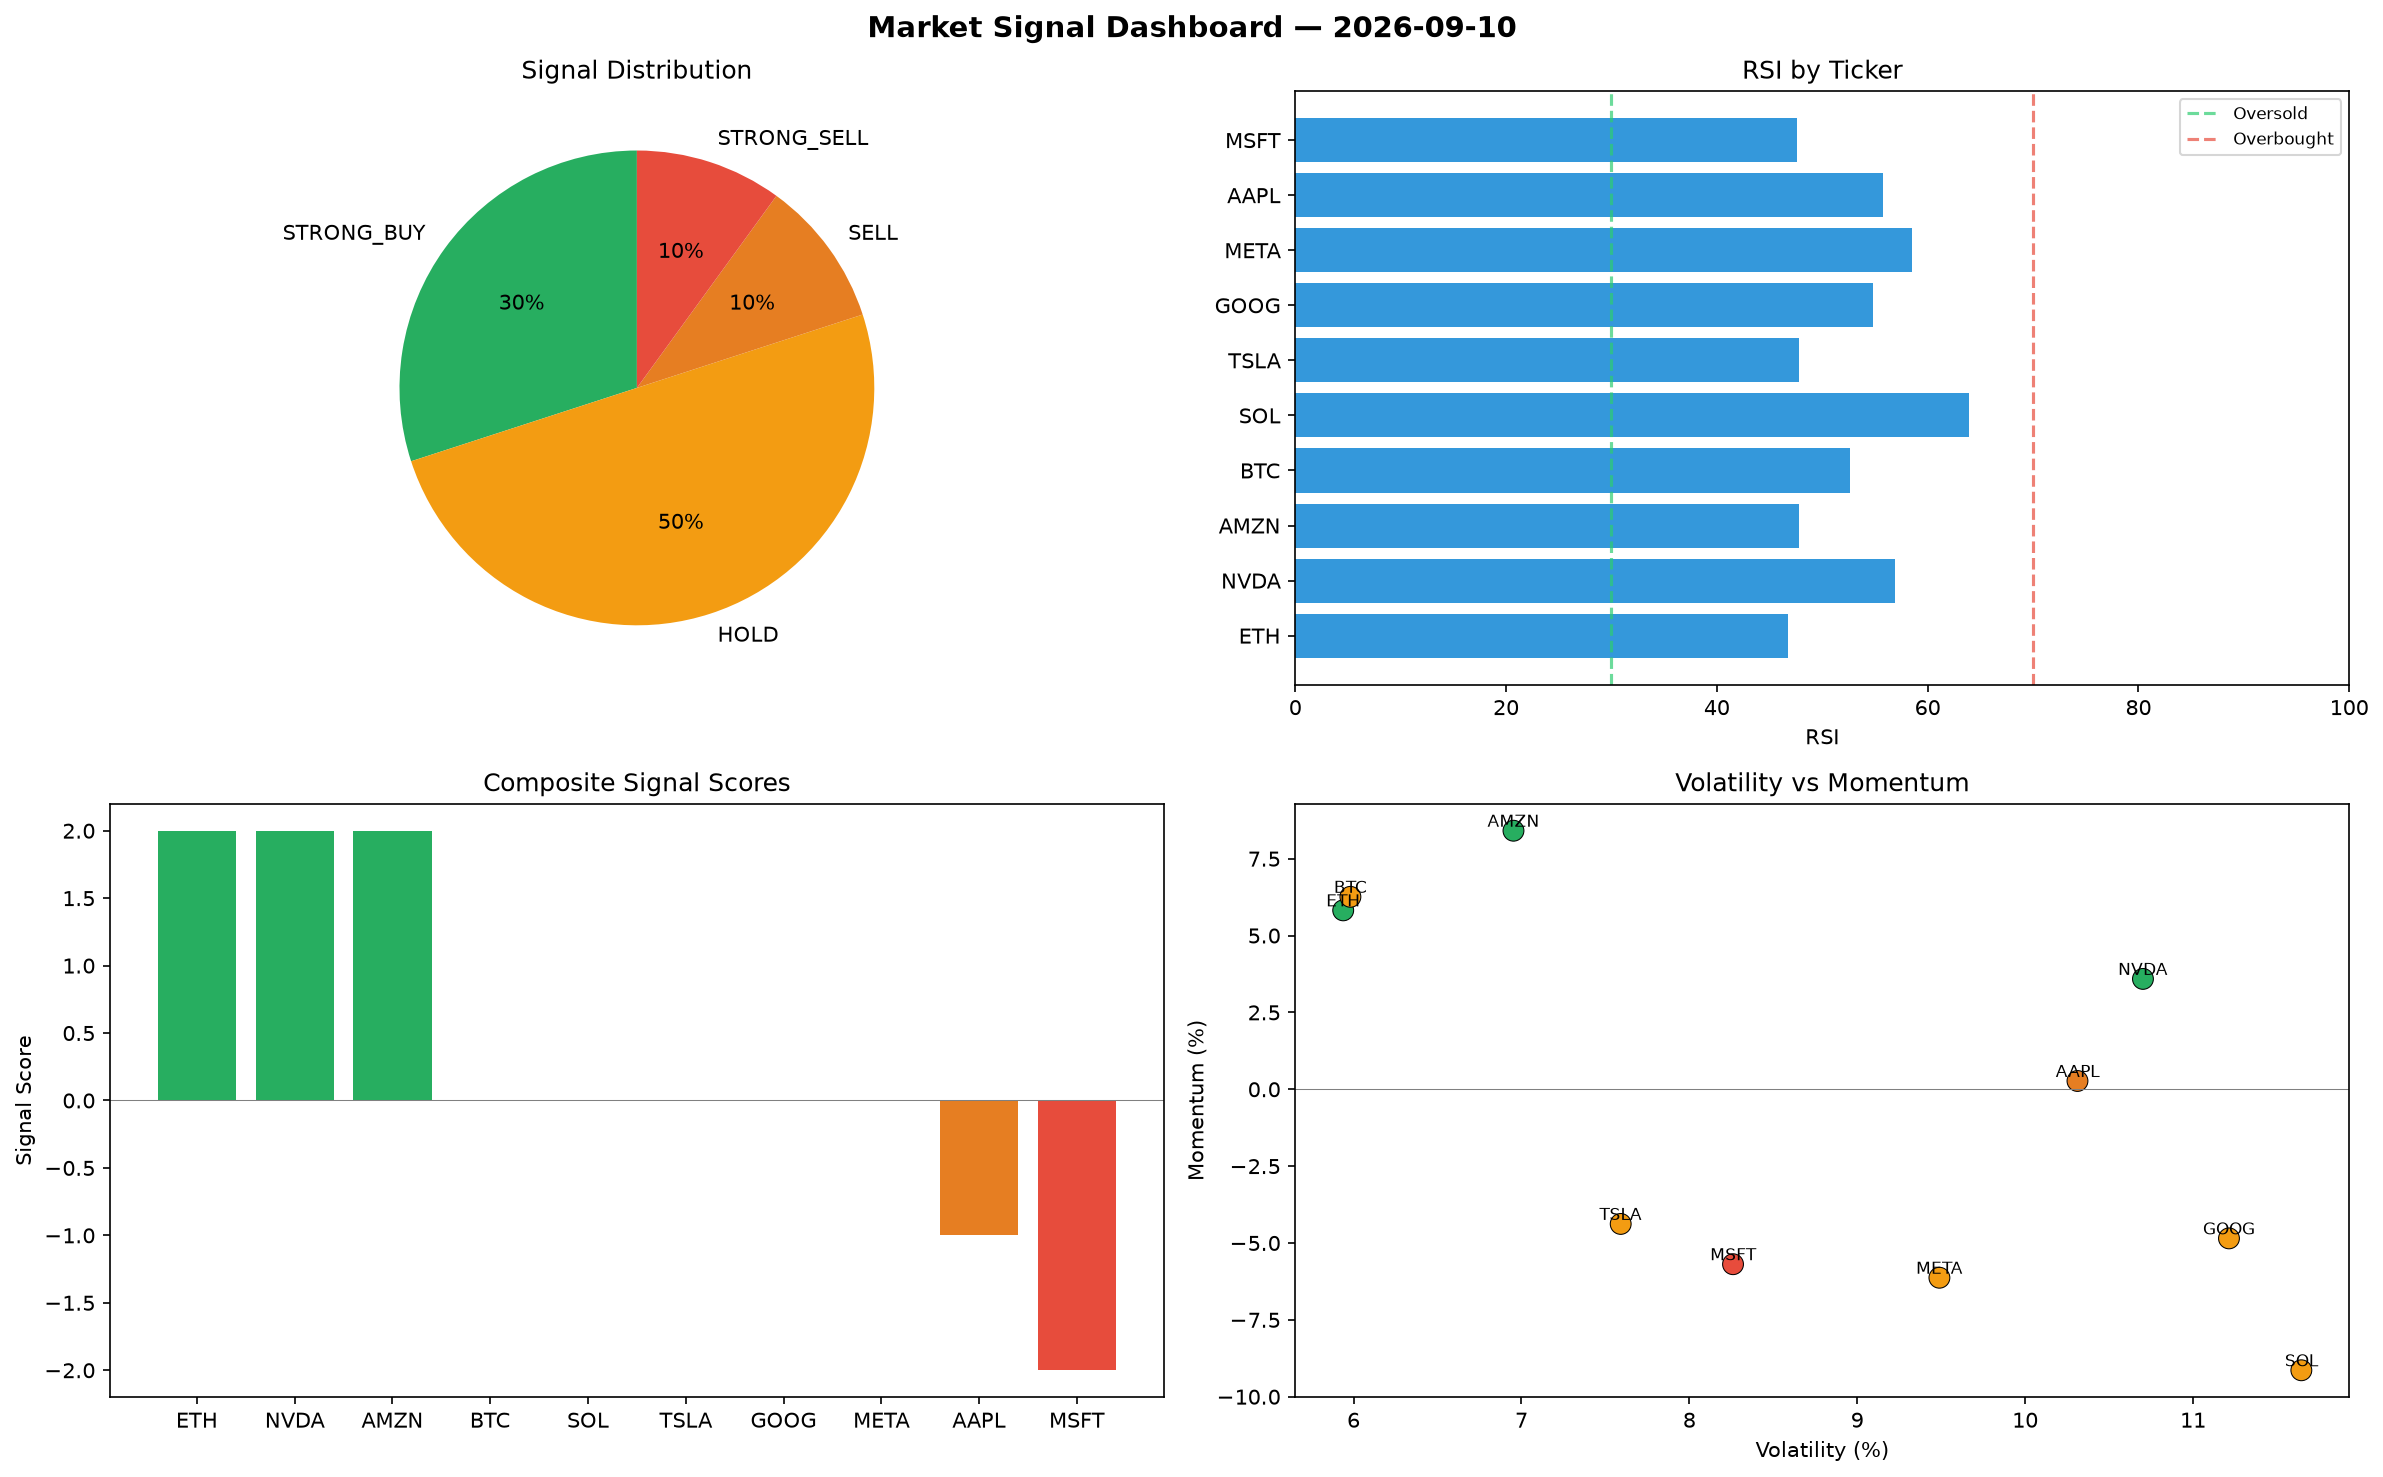
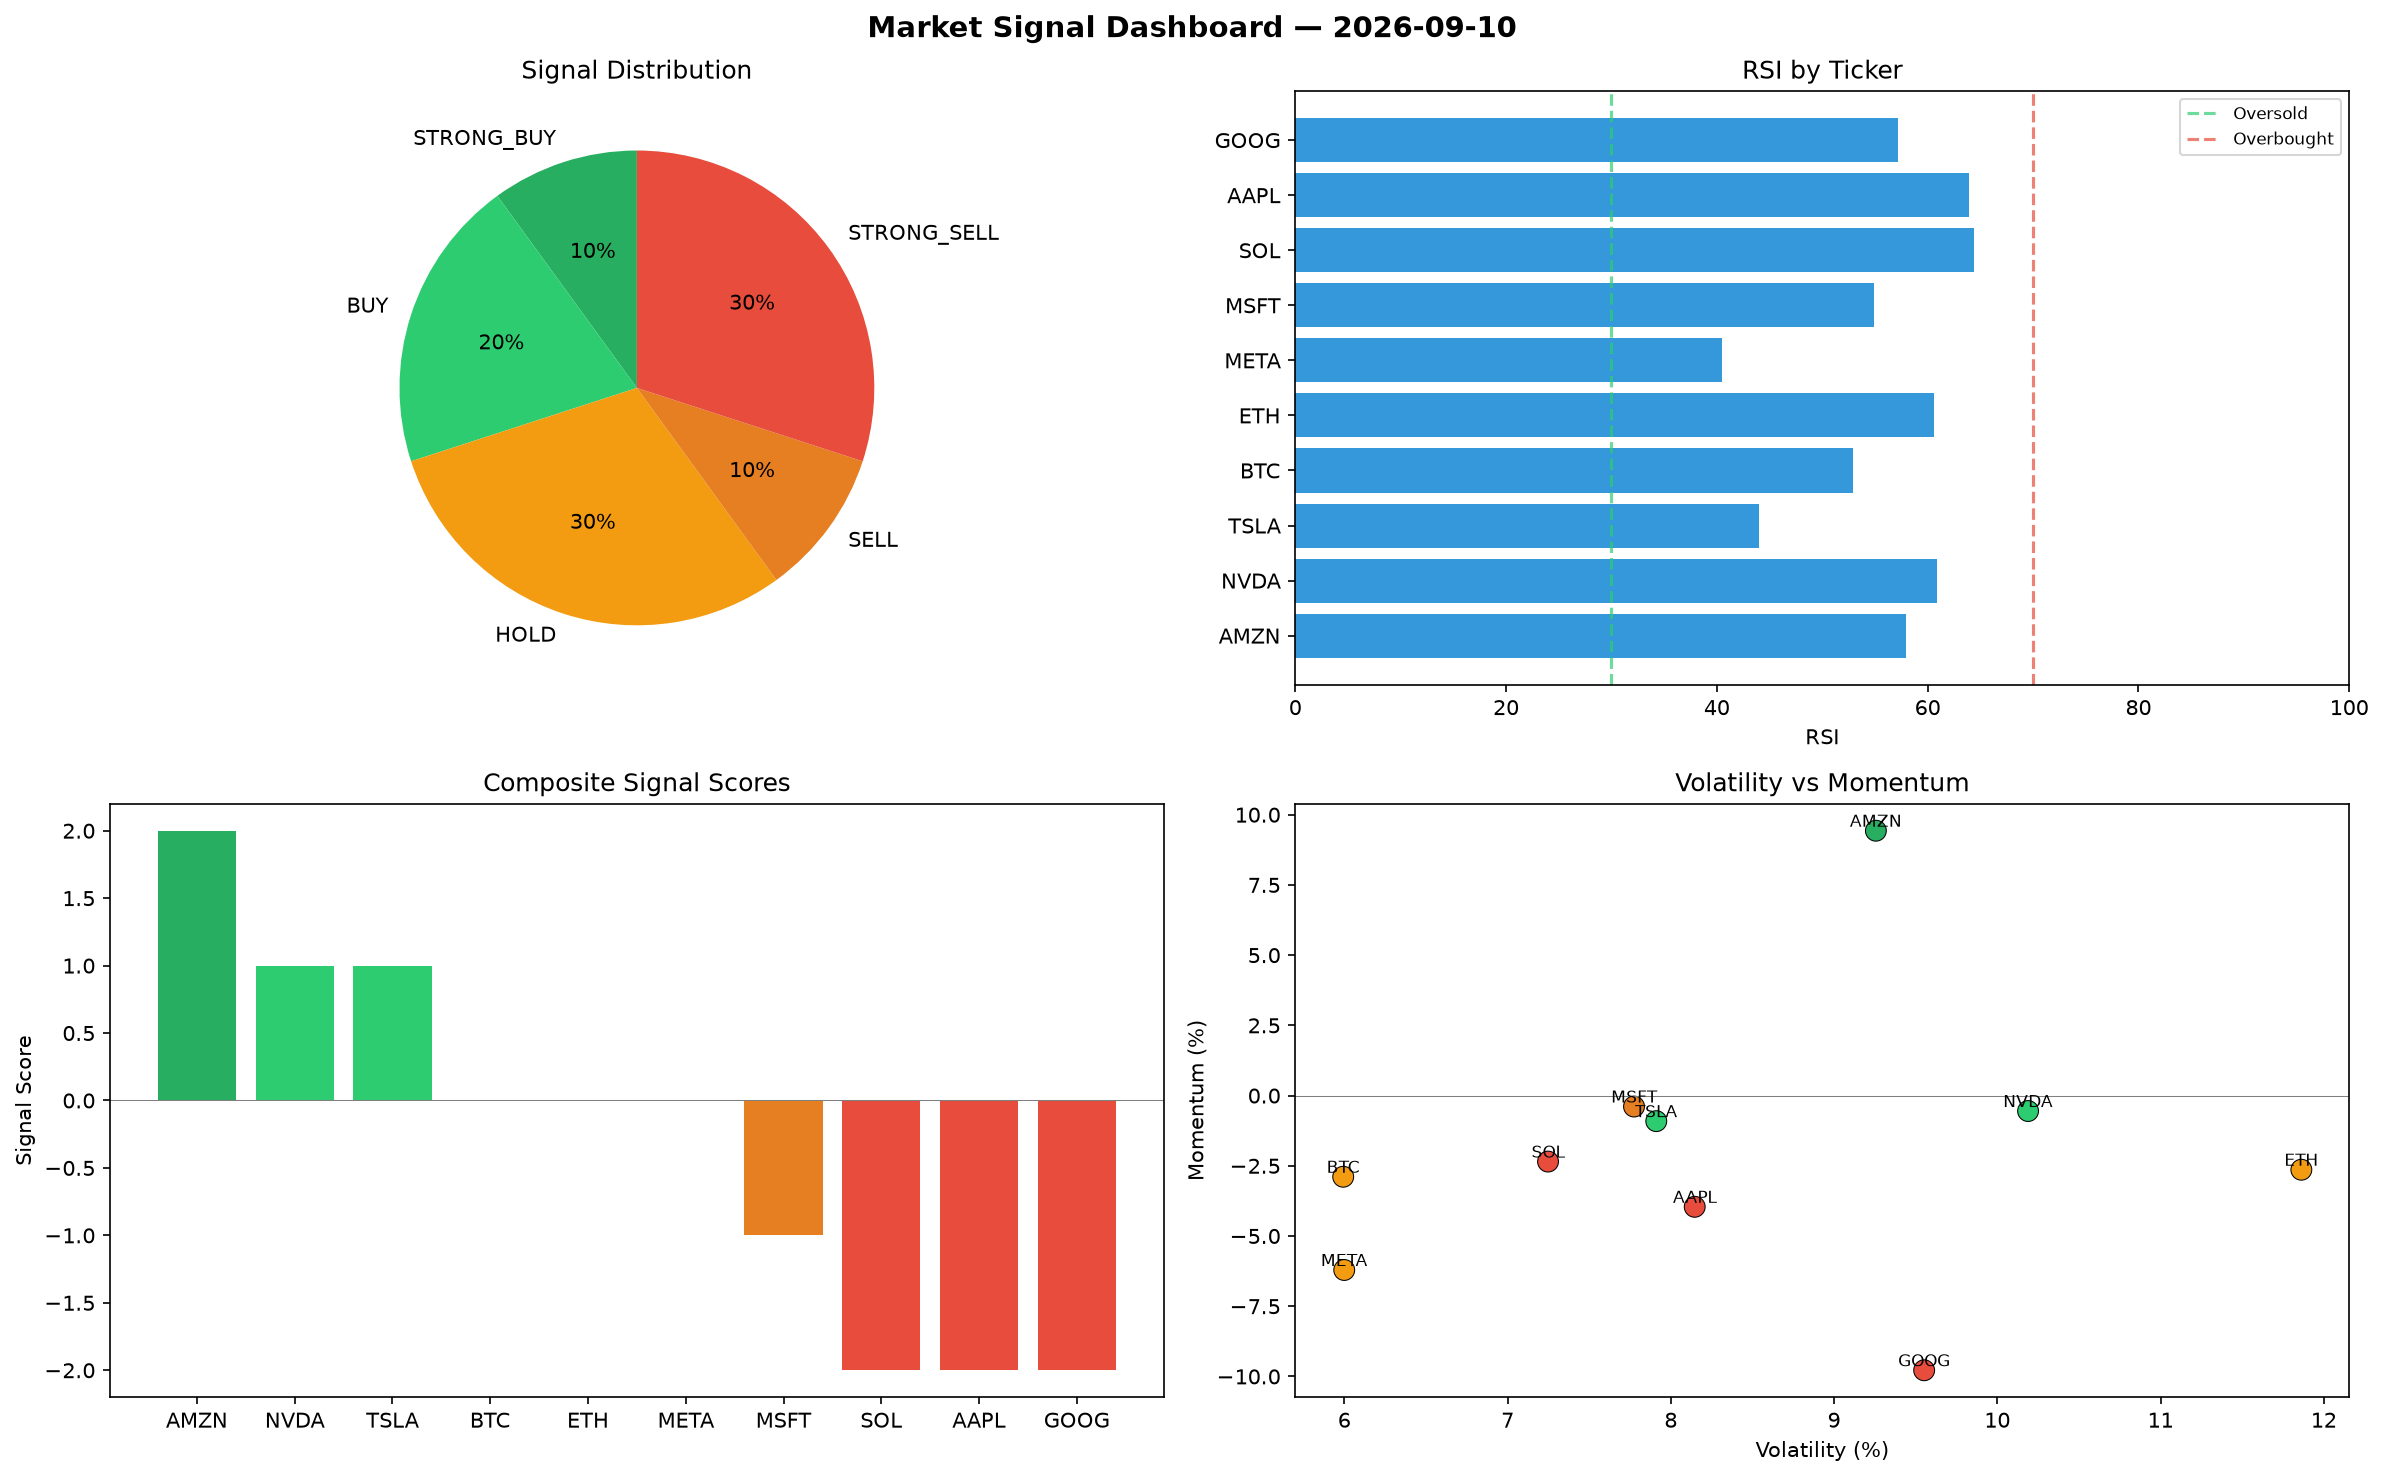
automated-bots: market signals 2026-09-10T12:59

diff --git a/logs/2026-09-10.md b/logs/2026-09-10.md
@@ -1,6 +1,6 @@
 # Market Signal Report — 2026-09-10
 
-**Run ID:** `8382eb11c7` | **Buy:** 3 | **Sell:** 2 | **Hold:** 5
+**Run ID:** `2dbd57c442` | **Buy:** 3 | **Sell:** 4 | **Hold:** 3
 
 ![Dashboard](2026-09-10_dashboard.png)
 
@@ -8,28 +8,28 @@
 
 | Ticker | Price | Signal | Score | RSI | Momentum | Confidence |
 |--------|-------|--------|-------|-----|----------|------------|
-| ETH | $4629.32 | **STRONG_BUY** | 2 | 46.73 | 0.0582 | 0.5 |
-| NVDA | $3061.05 | **STRONG_BUY** | 2 | 56.89 | 0.0359 | 0.5 |
-| AMZN | $3220.7 | **STRONG_BUY** | 2 | 47.77 | 0.0841 | 0.5 |
-| BTC | $132.13 | **HOLD** | 0 | 52.66 | 0.0626 | 0.0 |
-| SOL | $4805.58 | **HOLD** | 0 | 63.93 | -0.0914 | 0.0 |
-| TSLA | $3663.33 | **HOLD** | 0 | 47.81 | -0.0438 | 0.0 |
-| GOOG | $2906.83 | **HOLD** | 0 | 54.84 | -0.0485 | 0.0 |
-| META | $3967.31 | **HOLD** | 0 | 58.54 | -0.0613 | 0.0 |
-| AAPL | $3786.33 | **SELL** | -1 | 55.74 | 0.0027 | 0.25 |
-| MSFT | $2482.93 | **STRONG_SELL** | -2 | 47.58 | -0.0569 | 0.5 |
+| AMZN | $4389.65 | **STRONG_BUY** | 2 | 57.94 | 0.0943 | 0.5 |
+| NVDA | $5244.68 | **BUY** | 1 | 60.87 | -0.0055 | 0.25 |
+| TSLA | $3058.14 | **BUY** | 1 | 44.04 | -0.0091 | 0.25 |
+| BTC | $1225.22 | **HOLD** | 0 | 52.93 | -0.0289 | 0.0 |
+| ETH | $3290.66 | **HOLD** | 0 | 60.64 | -0.0264 | 0.0 |
+| META | $2014.41 | **HOLD** | 0 | 40.52 | -0.0621 | 0.0 |
+| MSFT | $2257.67 | **SELL** | -1 | 54.87 | -0.0039 | 0.25 |
+| SOL | $2673.68 | **STRONG_SELL** | -2 | 64.44 | -0.0235 | 0.5 |
+| AAPL | $4579.97 | **STRONG_SELL** | -2 | 63.93 | -0.0396 | 0.5 |
+| GOOG | $3014.83 | **STRONG_SELL** | -2 | 57.22 | -0.0978 | 0.5 |
 
 ## Delta vs Yesterday
 
 | Ticker | Today | Yesterday | Price Change | Signal Changed |
 |--------|-------|-----------|-------------|----------------|
-| ETH | STRONG_BUY | STRONG_BUY | 📈 30.23% | — |
-| NVDA | STRONG_BUY | HOLD | 📈 216.97% | ⚠ YES |
-| AMZN | STRONG_BUY | HOLD | 📈 96.07% | ⚠ YES |
-| BTC | HOLD | STRONG_BUY | 📉 -89.54% | ⚠ YES |
-| SOL | HOLD | HOLD | 📈 11.46% | — |
-| TSLA | HOLD | HOLD | 📈 873.77% | — |
-| GOOG | HOLD | STRONG_BUY | 📈 43.31% | ⚠ YES |
-| META | HOLD | STRONG_SELL | 📈 312.4% | ⚠ YES |
-| AAPL | SELL | HOLD | 📈 342.77% | ⚠ YES |
-| MSFT | STRONG_SELL | STRONG_BUY | 📈 25.9% | ⚠ YES |
+| AMZN | STRONG_BUY | HOLD | 📈 167.24% | ⚠ YES |
+| NVDA | BUY | HOLD | 📈 443.09% | ⚠ YES |
+| TSLA | BUY | HOLD | 📈 712.9% | ⚠ YES |
+| BTC | HOLD | STRONG_BUY | 📉 -3.05% | ⚠ YES |
+| ETH | HOLD | STRONG_BUY | 📉 -7.43% | ⚠ YES |
+| META | HOLD | STRONG_SELL | 📈 109.4% | ⚠ YES |
+| MSFT | SELL | STRONG_BUY | 📈 14.47% | ⚠ YES |
+| SOL | STRONG_SELL | HOLD | 📉 -37.99% | ⚠ YES |
+| AAPL | STRONG_SELL | HOLD | 📈 435.58% | ⚠ YES |
+| GOOG | STRONG_SELL | STRONG_BUY | 📈 48.63% | ⚠ YES |
